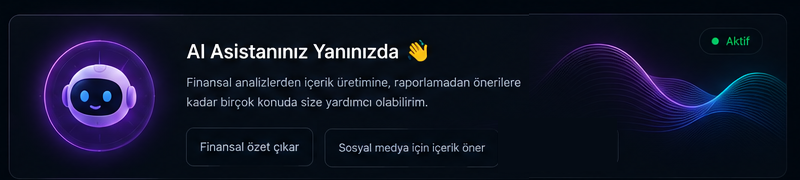
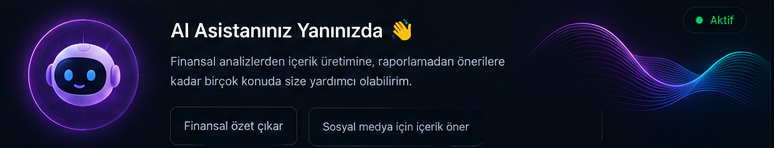
fix(UI): Fix invalid time value error for scheduled posts by parsing DD.MM.YYYY HH:mm correctly

diff --git a/src/app/(dashboard)/sosyal-medya/share/page.tsx b/src/app/(dashboard)/sosyal-medya/share/page.tsx
@@ -173,6 +173,27 @@ export default function SharePage() {
       return alert("Lütfen en az bir platform seçin.");
     }
 
+    let finalScheduledFor: string | undefined = undefined;
+    if (publishMode === 'schedule') {
+      try {
+        const parts = scheduleDate.trim().split(' ');
+        if (parts.length !== 2) throw new Error();
+        const dateParts = parts[0].split('.');
+        const timeParts = parts[1].split(':');
+        const d = new Date(
+          parseInt(dateParts[2], 10),
+          parseInt(dateParts[1], 10) - 1,
+          parseInt(dateParts[0], 10),
+          parseInt(timeParts[0], 10),
+          parseInt(timeParts[1] || '0', 10)
+        );
+        if (isNaN(d.getTime())) throw new Error();
+        finalScheduledFor = d.toISOString();
+      } catch (err) {
+        return alert("Tarih formatı hatalı. Lütfen 'GÜN.AY.YIL SAAT:DAKİKA' (örn: 16.08.2026 16:26) şeklinde girin.");
+      }
+    }
+
     setIsSharing(true);
     try {
       const { data, error } = await supabase.functions.invoke('zernio-client', {
@@ -183,7 +204,7 @@ export default function SharePage() {
             mediaItems: localImage ? [{ url: localImage }] : [],
             platforms: platformsToShare,
             publishNow: publishMode === 'now',
-            scheduledFor: publishMode === 'schedule' ? new Date(scheduleDate).toISOString() : undefined,
+            scheduledFor: finalScheduledFor,
           }
         }
       });
